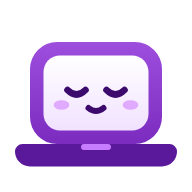
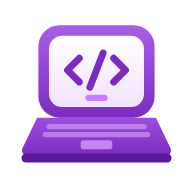
Replace the face mascot with a cute laptop whose lid opens and closes
Xpert is now a faceless laptop with stickers on the lid. Its states
(look, typing, think, party, closed, sleepy) are shown on the screen or by
folding the lid shut. The logo opens its lid once on load; the favicon, app
icons and share image use the new laptop.

Claude-Session: https://claude.ai/code/session_012Rzw1pCt5xZ8fwkbxETP5X

diff --git a/public/xpert.js b/public/xpert.js
@@ -1,90 +1,87 @@
-// Xpert, the laptop mascot, as a live SVG that can change mood.
-// Every face is drawn once and CSS shows the one that matches data-mood:
-//   look  - open eyes that follow the pointer (and blink)
-//   wave  - look, plus a waving hand
-//   think - eyes up, small mouth, dots on the screen
-//   party - happy eyes, open smile, sparkles
-//   sleepy - closed eyes and floating Zzz
-// The static logo stays in /mascot.svg; this is for the moments where Xpert reacts.
+// Xpert, the brand laptop, as a live SVG whose lid opens and closes.
+// Everything is drawn once and CSS shows the state that matches data-mood:
+//   look   - lid open, </> on the screen with a blinking cursor
+//   wave   - look, with a happy little hop
+//   typing - lid open, lines of code typing across the screen
+//   think  - lid open, loading dots on the screen
+//   party  - lid open, a heart on the screen and sparkles around it
+//   closed - lid shut, stickers on the back
+//   sleepy - lid shut, with a floating Zzz
+// The lid closes by folding the screen down onto the keyboard; see "Xpert, the brand laptop" in styles.css.
+// The static logo is /mascot.svg.
 
 const reducedMotion = () => window.matchMedia('(prefers-reduced-motion: reduce)').matches;
 let uid = 0;
 
-export function xpert(mood = 'look', { size = 96, cls = '', follow = false } = {}) {
+export function xpert(mood = 'look', { size = 96, cls = '' } = {}) {
   const id = `xp${++uid}`;
   return `
-<svg class="xpert ${cls}" data-mood="${mood}" ${follow ? 'data-follow' : ''} viewBox="-6 -10 80 78" width="${size}" height="${Math.round(size * 78 / 80)}" aria-hidden="true">
+<svg class="xpert ${cls}" data-mood="${mood}" viewBox="-6 -10 80 78" width="${size}" height="${Math.round(size * 78 / 80)}" aria-hidden="true">
   <defs>
-    <linearGradient id="${id}-lid" x1="0" y1="0" x2="0" y2="1"><stop offset="0" stop-color="#9d4edd"/><stop offset="1" stop-color="#7b2cbf"/></linearGradient>
+    <linearGradient id="${id}-lid" x1="0" y1="0" x2="0" y2="1"><stop offset="0" stop-color="#a95ee6"/><stop offset="1" stop-color="#7b2cbf"/></linearGradient>
     <linearGradient id="${id}-scr" x1="0" y1="0" x2="0" y2="1"><stop offset="0" stop-color="#fff"/><stop offset="1" stop-color="#f1e2ff"/></linearGradient>
+    <linearGradient id="${id}-deck" x1="0" y1="0" x2="0" y2="1"><stop offset="0" stop-color="#9d4edd"/><stop offset="1" stop-color="#7b2cbf"/></linearGradient>
   </defs>
-  <g class="xp-body" transform="translate(0 5)">
-    <g class="xp-hand"><path d="M55 40 61 27" stroke="#5a189a" stroke-width="3.2" stroke-linecap="round"/><circle cx="62" cy="24.5" r="4.6" fill="#c77dff"/></g>
-    <rect x="10" y="9" width="44" height="34" rx="9" fill="url(#${id}-lid)"/>
-    <rect x="14.5" y="13.5" width="35" height="25" rx="5.5" fill="url(#${id}-scr)"/>
-    <ellipse cx="20.5" cy="30" rx="2.6" ry="1.6" fill="#e0aaff"/>
-    <ellipse cx="43.5" cy="30" rx="2.6" ry="1.6" fill="#e0aaff"/>
-    <g class="xp-face xp-open" fill="#3c096c">
-      <g class="xp-pupils">
-        <ellipse class="xp-eye" cx="25.5" cy="24.5" rx="2.5" ry="3.1"/>
-        <ellipse class="xp-eye" cx="38.5" cy="24.5" rx="2.5" ry="3.1"/>
-        <circle cx="26.3" cy="23.4" r=".8" fill="#fff"/><circle cx="39.3" cy="23.4" r=".8" fill="#fff"/>
+  <ellipse cx="32" cy="58" rx="26" ry="2.6" fill="#3c096c" opacity=".16"/>
+  <g class="xp-body">
+    <!-- keyboard deck, seen from slightly above -->
+    <path d="M9.5 40h45l5.5 11.5a2 2 0 0 1-1.8 2.9H5.8A2 2 0 0 1 4 51.5z" fill="url(#${id}-deck)"/>
+    <g fill="#e0aaff" opacity=".55">
+      <rect x="13" y="42.4" width="38" height="2" rx="1"/><rect x="11.6" y="45.4" width="40.8" height="2" rx="1"/>
+    </g>
+    <rect x="26" y="48.6" width="12" height="3.4" rx="1.2" fill="#e0aaff" opacity=".7"/>
+    <rect x="3.6" y="53.6" width="56.8" height="3.4" rx="1.7" fill="#5a189a"/>
+    <!-- lid, open: screen faces us; it folds down toward the hinge at y=40 -->
+    <g class="xp-lid-front">
+      <rect x="10" y="5" width="44" height="35" rx="8" fill="url(#${id}-lid)"/>
+      <rect x="14" y="9" width="36" height="27" rx="5" fill="url(#${id}-scr)"/>
+      <circle cx="32" cy="7" r=".9" fill="#e0aaff"/>
+      <g class="xp-scr xp-code" stroke="#7b2cbf" stroke-width="2.4" fill="none" stroke-linecap="round" stroke-linejoin="round">
+        <path d="M25.5 17.5l-4.5 4.5 4.5 4.5M38.5 17.5l4.5 4.5-4.5 4.5M34.5 15.5l-5 13"/>
+        <path class="xp-caret" d="M29 32.5h6" stroke="#c77dff"/>
+      </g>
+      <g class="xp-scr xp-typing" stroke-width="2.2" stroke-linecap="round">
+        <path d="M19 15h14" stroke="#9d4edd"/><path d="M22 20h18" stroke="#c77dff"/><path d="M22 25h10" stroke="#9d4edd"/><path d="M19 30h20" stroke="#c77dff"/>
+      </g>
+      <g class="xp-scr xp-dots" fill="#9d4edd"><circle cx="26" cy="22.5" r="2"/><circle cx="32" cy="22.5" r="2"/><circle cx="38" cy="22.5" r="2"/></g>
+      <g class="xp-scr xp-heart">
+        <path d="M32 29.5s-7.5-4.6-7.5-9.4a4 4 0 0 1 7.5-2 4 4 0 0 1 7.5 2c0 4.8-7.5 9.4-7.5 9.4z" fill="#9d4edd"/>
+        <path d="M19.5 14.5l.8 1.8 1.8.8-1.8.8-.8 1.8-.8-1.8-1.8-.8 1.8-.8zM44.5 26.5l.7 1.5 1.5.7-1.5.7-.7 1.5-.7-1.5-1.5-.7 1.5-.7z" fill="#c77dff"/>
       </g>
     </g>
-    <path class="xp-face xp-smile" d="M29.5 31q2.5 2 5 0" stroke="#3c096c" stroke-width="2" fill="none" stroke-linecap="round"/>
-    <circle class="xp-face xp-o" cx="32" cy="32" r="1.4" fill="#3c096c"/>
-    <g class="xp-face xp-dots" fill="#9d4edd"><circle cx="27" cy="35" r="1"/><circle cx="32" cy="35" r="1"/><circle cx="37" cy="35" r="1"/></g>
-    <path class="xp-face xp-happy" d="M22.5 25.5q3-3.2 6 0M35.5 25.5q3-3.2 6 0" stroke="#3c096c" stroke-width="2.2" fill="none" stroke-linecap="round"/>
-    <path class="xp-face xp-grin" d="M28.3 30h7.4a3.7 3.7 0 0 1-7.4 0z" fill="#3c096c"/>
-    <path class="xp-face xp-shut" d="M22.5 25.5q3 1.6 6 0M35.5 25.5q3 1.6 6 0" stroke="#3c096c" stroke-width="2.2" fill="none" stroke-linecap="round"/>
-    <path d="M5 45.5a2.5 2.5 0 0 1 2.5-2.5h49a2.5 2.5 0 0 1 2.5 2.5v0a5 5 0 0 1-5 5H10a5 5 0 0 1-5-5z" fill="#5a189a"/>
-    <rect x="27" y="43" width="10" height="2" rx="1" fill="#c77dff"/>
+    <!-- lid, closed: the back of the lid lies over the deck, with stickers -->
+    <g class="xp-lid-back">
+      <path d="M9.5 40h45l5.5 11.5a2 2 0 0 1-1.8 2.9H5.8A2 2 0 0 1 4 51.5z" fill="url(#${id}-lid)"/>
+      <path d="M9.5 40h45" stroke="#e0aaff" stroke-width="1" opacity=".6"/>
+      <path d="M20 50.2s-3.6-2.2-3.6-4.5a1.9 1.9 0 0 1 3.6-1 1.9 1.9 0 0 1 3.6 1c0 2.3-3.6 4.5-3.6 4.5z" fill="#ffd6ec"/>
+      <path d="M32 42.8l1.1 2.3 2.5.4-1.8 1.8.4 2.5-2.2-1.2-2.2 1.2.4-2.5-1.8-1.8 2.5-.4z" fill="#fff" opacity=".9"/>
+      <g transform="translate(44 46.5)"><circle r="3.4" fill="#10002b"/><path d="M-1.4-1.4l2.8 2.8m0-2.8-2.8 2.8" stroke="#e0aaff" stroke-width="1.2" stroke-linecap="round"/></g>
+    </g>
   </g>
-  <g class="xp-face xp-zzz" fill="#9d4edd" font-family="Nunito, sans-serif" font-weight="900">
-    <text x="52" y="8" font-size="9">z</text><text x="59" y="0" font-size="7">z</text><text x="64" y="-6" font-size="5">z</text>
+  <g class="xp-extra xp-zzz" fill="#9d4edd" font-family="Nunito, sans-serif" font-weight="900">
+    <text x="50" y="30" font-size="9">z</text><text x="57" y="22" font-size="7">z</text><text x="62" y="15" font-size="5">z</text>
   </g>
-  <g class="xp-face xp-spark" fill="#e0aaff">
+  <g class="xp-extra xp-spark" fill="#c77dff">
     <path d="M2 4l1.5 3.5L7 9 3.5 10.5 2 14 .5 10.5-3 9 .5 7.5z"/>
     <path d="M64 6l1.2 2.8L68 10l-2.8 1.2L64 14l-1.2-2.8L60 10l2.8-1.2z"/>
   </g>
 </svg>`;
 }
 
-/** Changes the mood of an Xpert, optionally going back to the previous one after `ms`. */
-export function setMood(svg, mood, ms) {
+/** Changes the state of a laptop. After `ms`, it moves on to `next` (by default, the state it had before). */
+export function setMood(svg, mood, ms, next = svg?.dataset.mood) {
   if (!svg) return;
-  const before = svg.dataset.mood;
   svg.dataset.mood = mood;
   clearTimeout(svg._moodTimer);
-  if (ms) svg._moodTimer = setTimeout(() => { svg.dataset.mood = before; }, ms);
+  if (ms) svg._moodTimer = setTimeout(() => { svg.dataset.mood = next; }, ms);
 }
 
-// One pointer listener for the whole page: every Xpert marked data-follow turns its eyes
-// toward the pointer. Pupils move at most 2.2 units, so the face stays calm.
-let frame = 0;
-let pointer = null;
-function aim(svg, x, y) {
-  const box = svg.getBoundingClientRect();
-  if (!box.width) return;
-  const dx = x - (box.left + box.width / 2);
-  const dy = y - (box.top + box.height * 0.42);
-  const dist = Math.hypot(dx, dy) || 1;
-  const reach = Math.min(1, dist / 220);
-  svg.querySelector('.xp-pupils')?.setAttribute('transform', `translate(${((dx / dist) * 2.2 * reach).toFixed(2)} ${((dy / dist) * 1.8 * reach).toFixed(2)})`);
-}
-window.addEventListener('pointermove', (e) => {
-  pointer = [e.clientX, e.clientY];
-  if (frame) return;
-  frame = requestAnimationFrame(() => {
-    frame = 0;
-    document.querySelectorAll('.xpert[data-follow]').forEach((svg) => aim(svg, ...pointer));
-  });
-}, { passive: true });
-
-/** Points an Xpert's eyes at an element (for example the field someone is typing in). */
-export function lookAt(svg, el) {
-  const r = el.getBoundingClientRect();
-  aim(svg, r.left + r.width / 2, r.top + r.height / 2);
+/** Closes the lid, then opens it again into `mood` (a little "blink" of the laptop). */
+export function blink(svg, mood = svg?.dataset.mood ?? 'look', ms = 650) {
+  if (!svg) return;
+  clearTimeout(svg._moodTimer);
+  svg.dataset.mood = 'closed';
+  svg._moodTimer = setTimeout(() => { svg.dataset.mood = mood; }, reducedMotion() ? 0 : ms);
 }
 
 /** A short burst of confetti in the brand colours. Skipped when reduced motion is on. */

diff --git a/public/styles.css b/public/styles.css
@@ -715,37 +715,44 @@ input:focus, textarea:focus, select:focus { border-color: var(--p400); outline: 
 .cta .contact-line { color: #d9c4f2; opacity: 1; }
 .cta .contact-line a { color: #fff; text-decoration-color: var(--p300); }
 
-/* Xpert, the live mascot (public/xpert.js): CSS shows the face that matches data-mood */
+/* Xpert, the brand laptop (public/xpert.js). Closing folds the screen down to the hinge
+   (scaleY to 0 from y=40), then unfolds the lid's back over the keyboard deck. Opening runs
+   the same two steps in reverse; the delays below sequence them in each direction. */
 .xpert { display: block; overflow: visible; }
-.xpert .xp-face, .xpert .xp-hand { display: none; }
-.xpert[data-mood="look"] :is(.xp-open, .xp-smile),
-.xpert[data-mood="wave"] :is(.xp-open, .xp-smile, .xp-hand),
-.xpert[data-mood="think"] :is(.xp-open, .xp-o, .xp-dots),
-.xpert[data-mood="party"] :is(.xp-happy, .xp-grin, .xp-spark),
-.xpert[data-mood="sleepy"] :is(.xp-shut, .xp-o, .xp-zzz) { display: inline; }
-.xpert[data-mood="think"] .xp-pupils { transform: translate(1.6px, -1.6px); }
-.xpert .xp-pupils { transition: transform .18s ease-out; }
-.xpert .xp-eye { transform-box: fill-box; transform-origin: center; animation: xp-blink 5s infinite; }
-.xpert .xp-eye + .xp-eye { animation-delay: .02s; }
-.xpert .xp-hand { transform-box: view-box; transform-origin: 55px 40px; animation: xp-wave .8s ease-in-out infinite alternate; }
+.xpert .xp-lid-front, .xpert .xp-lid-back, .xpert .xp-body { transform-box: view-box; }
+.xpert .xp-lid-front { transform-origin: 32px 40px; transition: transform .26s cubic-bezier(.3, 1.35, .5, 1) .2s; }
+.xpert .xp-lid-back { transform-origin: 32px 40px; transform: scaleY(0); transition: transform .2s ease-in; }
+.xpert:is([data-mood="closed"], [data-mood="sleepy"]) .xp-lid-front { transform: scaleY(0); transition: transform .24s ease-in; }
+.xpert:is([data-mood="closed"], [data-mood="sleepy"]) .xp-lid-back { transform: scaleY(1); transition: transform .2s cubic-bezier(.3, 1.4, .5, 1) .24s; }
+.xpert .xp-scr, .xpert .xp-extra { display: none; }
+.xpert:is([data-mood="look"], [data-mood="wave"]) .xp-code,
+.xpert[data-mood="typing"] .xp-typing,
+.xpert[data-mood="think"] .xp-dots,
+.xpert[data-mood="party"] :is(.xp-heart, .xp-spark),
+.xpert[data-mood="sleepy"] .xp-zzz { display: inline; }
+.xpert .xp-caret { animation: xp-caret 1.1s steps(1) infinite; }
+.xpert .xp-typing path { transform-box: fill-box; transform-origin: left center; animation: xp-type 1.4s ease-out infinite; }
+.xpert .xp-typing path:nth-child(2) { animation-delay: .2s; }
+.xpert .xp-typing path:nth-child(3) { animation-delay: .4s; }
+.xpert .xp-typing path:nth-child(4) { animation-delay: .6s; }
 .xpert[data-mood="think"] .xp-body, .xp-loading .xpert .xp-body { animation: xp-bob 1.6s ease-in-out infinite; }
-.xpert[data-mood="think"] .xp-dots circle { animation: xp-dot 1.2s ease-in-out infinite; }
-.xpert[data-mood="think"] .xp-dots circle:nth-child(2) { animation-delay: .15s; }
-.xpert[data-mood="think"] .xp-dots circle:nth-child(3) { animation-delay: .3s; }
-.xpert[data-mood="party"] .xp-body { transform-box: view-box; transform-origin: 32px 56px; animation: xp-hop .5s ease-in-out 3; }
-.xpert[data-mood="party"] .xp-spark path { transform-box: fill-box; transform-origin: center; animation: xp-twinkle 1s ease-in-out infinite; }
-.xpert[data-mood="sleepy"] .xp-zzz text { animation: xp-z 2.4s ease-in-out infinite; }
-.xpert[data-mood="sleepy"] .xp-zzz text:nth-child(2) { animation-delay: .4s; }
-.xpert[data-mood="sleepy"] .xp-zzz text:nth-child(3) { animation-delay: .8s; }
-.xpert[data-mood="sleepy"] .xp-body { animation: xp-breathe 3.2s ease-in-out infinite; transform-box: view-box; transform-origin: 32px 56px; }
-@keyframes xp-blink { 0%, 93%, 100% { transform: scaleY(1); } 95.5% { transform: scaleY(.1); } }
-@keyframes xp-wave { from { transform: rotate(-14deg); } to { transform: rotate(16deg); } }
-@keyframes xp-bob { 0%, 100% { transform: translate(0, 5px); } 50% { transform: translate(0, 2px); } }
+.xpert .xp-dots circle { animation: xp-dot 1.2s ease-in-out infinite; }
+.xpert .xp-dots circle:nth-child(2) { animation-delay: .15s; }
+.xpert .xp-dots circle:nth-child(3) { animation-delay: .3s; }
+.xpert:is([data-mood="party"], [data-mood="wave"]) .xp-body { transform-origin: 32px 56px; animation: xp-hop .5s ease-in-out 2; }
+.xpert .xp-heart path:first-child { transform-box: fill-box; transform-origin: center; animation: xp-beat 1s ease-in-out infinite; }
+.xpert .xp-spark path { transform-box: fill-box; transform-origin: center; animation: xp-twinkle 1s ease-in-out infinite; }
+.xpert .xp-zzz text { animation: xp-z 2.4s ease-in-out infinite; }
+.xpert .xp-zzz text:nth-child(2) { animation-delay: .4s; }
+.xpert .xp-zzz text:nth-child(3) { animation-delay: .8s; }
+@keyframes xp-caret { 50% { opacity: 0; } }
+@keyframes xp-type { 0% { transform: scaleX(0); } 45%, 100% { transform: scaleX(1); } }
+@keyframes xp-bob { 0%, 100% { transform: none; } 50% { transform: translateY(-2px); } }
 @keyframes xp-dot { 0%, 100% { opacity: .25; } 50% { opacity: 1; } }
-@keyframes xp-hop { 0%, 100% { transform: translate(0, 5px); } 50% { transform: translate(0, -1px) rotate(-3deg); } }
+@keyframes xp-hop { 0%, 100% { transform: none; } 50% { transform: translateY(-4px) rotate(-2deg); } }
+@keyframes xp-beat { 0%, 100% { transform: scale(1); } 30% { transform: scale(1.14); } 60% { transform: scale(.96); } }
 @keyframes xp-twinkle { 0%, 100% { transform: scale(.6); opacity: .5; } 50% { transform: scale(1.15); opacity: 1; } }
 @keyframes xp-z { 0% { opacity: 0; transform: translate(0, 4px); } 40% { opacity: 1; } 100% { opacity: 0; transform: translate(3px, -6px); } }
-@keyframes xp-breathe { 0%, 100% { transform: translate(0, 5px) scale(1); } 50% { transform: translate(0, 5px) scale(1.02, .98); } }
 
 /* Hero: Xpert sits on the top edge of the finder */
 .finder { position: relative; }

diff --git a/public/app.js b/public/app.js
@@ -1,6 +1,6 @@
 // Tech and AI Xperts single-page app: hash routing, a tiny API client and view renderers.
 import { icon } from './icons.js';
-import { xpert, setMood, lookAt, confetti } from './xpert.js';
+import { xpert, setMood, blink, confetti } from './xpert.js';
 
 const app = document.getElementById('app');
 const nav = document.getElementById('nav');
@@ -497,7 +497,7 @@ async function viewHome() {
         <div class="finder">
           <div class="finder-xpert">
             <span class="xp-bubble" id="hero-bubble">Hi, I'm Xpert!</span>
-            <button type="button" class="xp-poke" id="hero-xpert" aria-label="Say hi to Xpert">${xpert('wave', { size: 88, follow: true })}</button>
+            <button type="button" class="xp-poke" id="hero-xpert" aria-label="Say hi to Xpert">${xpert('closed', { size: 88 })}</button>
           </div>
           <div class="finder-tabs" role="tablist" data-active="hire">
             <button type="button" role="tab" aria-selected="true" class="on" data-finder="hire">${icon('briefcase', { size: 18 })}Hire a team</button>
@@ -601,8 +601,8 @@ async function viewHome() {
   bindHowTrack();
 }
 
-// Xpert in the hero: waves hello, then watches the pointer. It looks at the field while
-// someone types, smiles at a long enough idea, and waves again when poked.
+// Xpert in the hero: the laptop opens to say hello, types along while someone describes
+// their idea, shows a heart once the idea is long enough, and blinks its lid when poked.
 function bindHeroXpert() {
   const poke = document.getElementById('hero-xpert');
   const svg = poke.querySelector('.xpert');
@@ -614,17 +614,27 @@ function bindHeroXpert() {
     clearTimeout(say.t);
     say.t = setTimeout(() => bubble.classList.remove('show'), ms);
   };
-  setTimeout(() => { setMood(svg, 'look'); }, 1800);
-  setTimeout(() => say("Hi, I'm Xpert!"), 500);
+  setTimeout(() => setMood(svg, 'wave', 1400, 'look'), 400);
+  setTimeout(() => say("Hi, I'm Xpert!"), 700);
   poke.addEventListener('click', () => {
-    setMood(svg, 'wave', 1600);
+    blink(svg, 'wave');
     say(['Need a team? I can help.', 'Tell me what to build!', 'Every expert is interviewed.'][Math.floor(Math.random() * 3)]);
   });
+  let liked = false;
+  let idle;
   input.addEventListener('input', () => {
-    lookAt(svg, input);
-    if (input.value.trim().length >= 15 && svg.dataset.mood !== 'party') { setMood(svg, 'party', 1400); say('Ooh, I like it!', 1800); }
+    const long = input.value.trim().length >= 15;
+    if (long && !liked) {
+      liked = true;
+      setMood(svg, 'party');
+      say('Ooh, I like it!', 1800);
+    } else if (!liked || !long) {
+      liked = long;
+      setMood(svg, 'typing');
+    }
+    clearTimeout(idle);
+    idle = setTimeout(() => setMood(svg, 'look'), 1600);
   });
-  input.addEventListener('focus', () => lookAt(svg, input));
 }
 
 async function viewDevelopers(params) {
@@ -893,7 +903,7 @@ function viewNewRequest() {
   app.innerHTML = `
     <div class="narrow" style="max-width:760px">
       <div class="page-head xp-greet">
-        ${xpert('wave', { size: 84, follow: true })}
+        ${xpert('closed', { size: 84 })}
         <div><h1>Build your team</h1><p class="xp-say" id="xp-say" aria-live="polite">Hi! Tell me what you're building and I'll scope it for you.</p></div>
       </div>
       <form class="card" id="req-form">
@@ -928,7 +938,7 @@ function viewNewRequest() {
   const scopeBtn = document.getElementById('scope-btn');
   const helper = app.querySelector('.xp-greet .xpert');
   const say = (text) => { document.getElementById('xp-say').textContent = text; };
-  setTimeout(() => { if (helper.dataset.mood === 'wave') setMood(helper, 'look'); }, 2200);
+  setTimeout(() => setMood(helper, 'wave', 1400, 'look'), 300);
   form.querySelectorAll('.chip').forEach((chip) => chip.addEventListener('click', () => { form.description.value = chip.dataset.text; form.description.focus(); }));
 
   async function runScope() {
@@ -951,7 +961,7 @@ function viewNewRequest() {
         <div class="ai-box"><strong>${icon('sparkles', { size: 16 })} AI brief</strong> <span class="hint">(${scope.source === 'claude' ? 'by Claude' : 'quick estimate'})</span>
           <p style="margin:6px 0 0">${esc(scope.summary)}</p>
           <p class="hint" style="margin:6px 0 0">We filled in the details below — adjust anything before posting.</p></div>`;
-      setMood(helper, 'party', 2200);
+      setMood(helper, 'party', 2200, 'look');
       say('Done! I filled in the details below. Change anything you like.');
     } catch (err) { setMood(helper, 'look'); say("Sorry, I couldn't scope that. Try again in a moment."); toast(err.message); }
     scopeBtn.disabled = false;

diff --git a/README.md b/README.md
@@ -17,7 +17,7 @@ Your tech team, on your timeline. Clients describe what they're building, set a 
 
 **Platform**
 - A minimal landing page: a photo hero with a hire/join finder, a rotating "On demand" line, role photos, "How it works" in one line, pricing packages, a team builder that prices a custom team, and a developer call to action. Prices (senior hourly rates by role, mid/expert multipliers, packages and the promises row) are set in `ROLE_RATES`, `LEVELS`, `PACKAGES` and `PROMISES` in `public/app.js`.
-- **Xpert, the live mascot** (`public/xpert.js`): sits on the hero finder and follows the pointer, waves when poked, smiles at a good idea, thinks while the AI scopes a job, celebrates (with confetti) when a job goes live, and dozes on the not-found and offline screens. Motion is skipped when the visitor prefers reduced motion.
+- **Xpert, the brand laptop** (`public/xpert.js`): a cute laptop whose lid really opens and closes. It opens to say hello on the hero, types along while a client describes their idea, shows a heart when the idea is long enough, blinks its lid when clicked, shows loading dots while the AI scopes a job, celebrates (with confetti) when a job goes live, and closes to sleep on the not-found and offline screens. The logo (`public/mascot.svg`) opens its lid once on load. Motion is skipped when the visitor prefers reduced motion.
 - **Team forming:** in the team builder, each person you add drops into one of five seats; on a job page, new team members pop into place and open seats gently pulse.
 - **World map** of where clients and experts are, drawn from a dot grid (`public/images/world-dots.svg`, made from the public-domain Natural Earth land outline) with glowing city pins and arcs.
 - **How it works timeline:** Idea → Team → Launch, filling in as you scroll.
